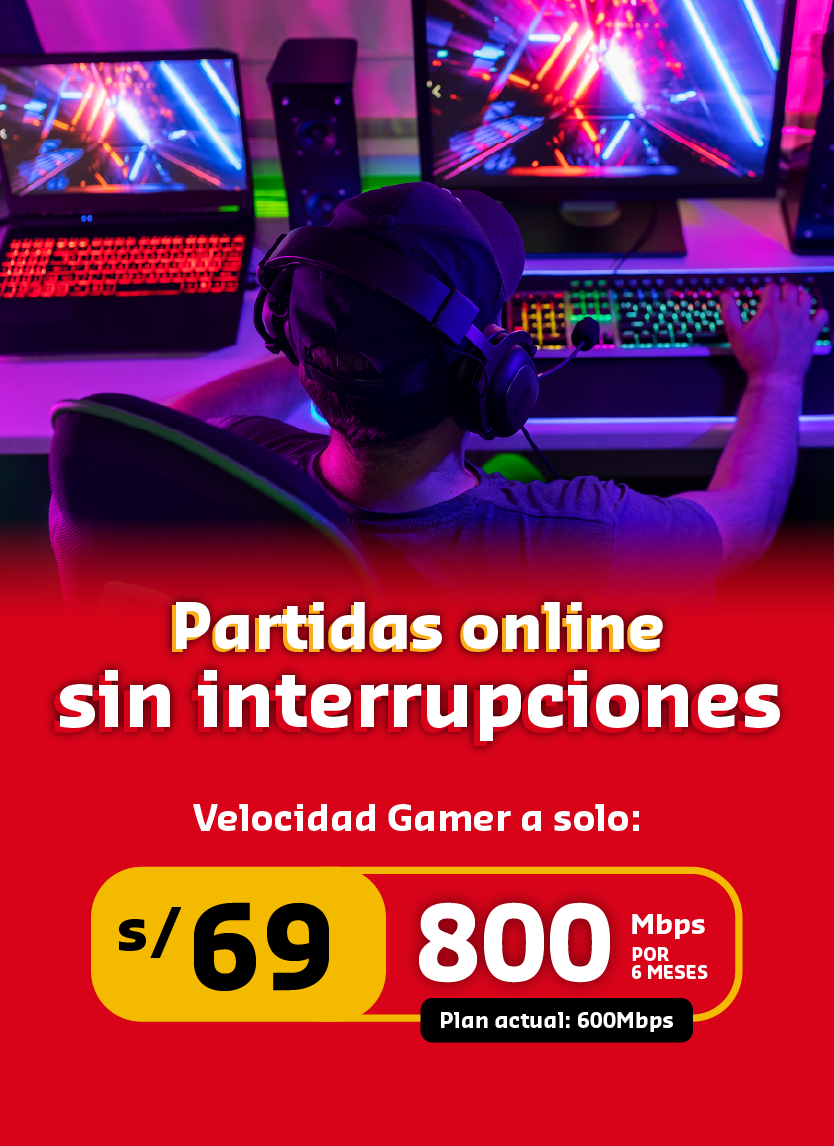
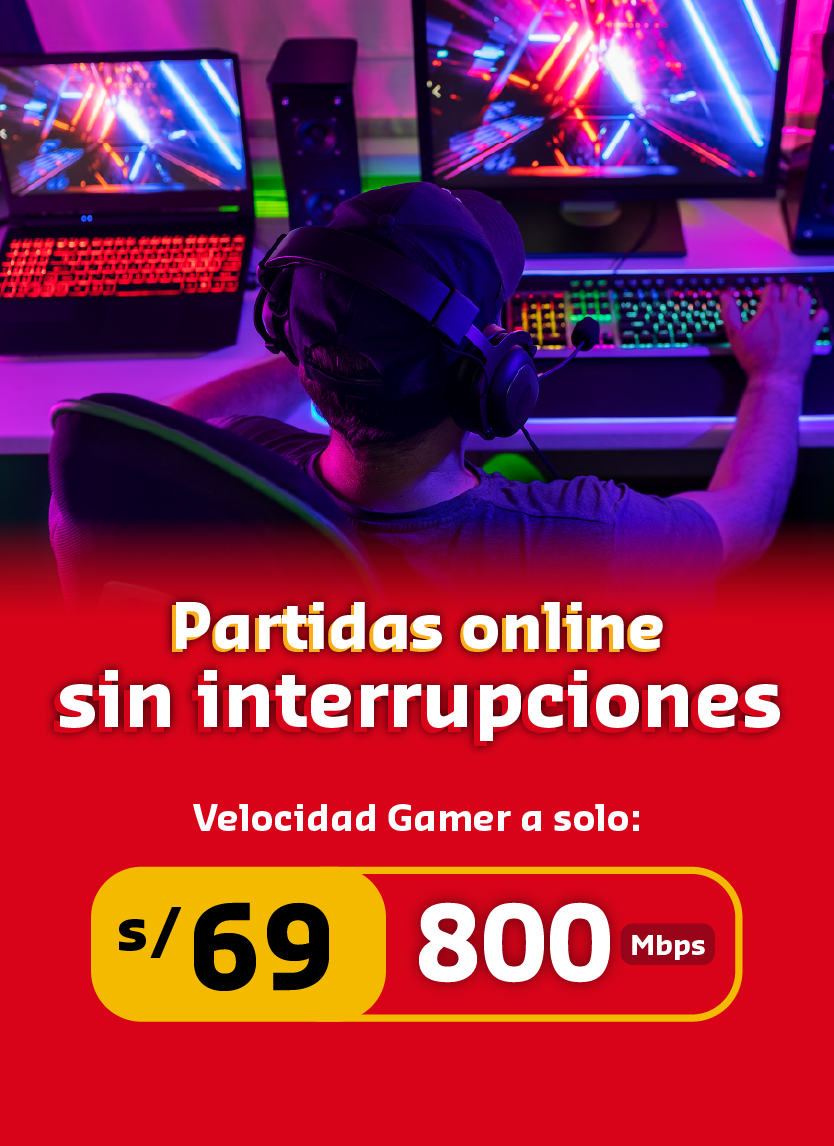
feat: update

Changed region(s): [[0.4988, 0.7941, 0.8729, 0.9162]]

diff --git a/perufibra/src/app/components/Plans.tsx b/perufibra/src/app/components/Plans.tsx
@@ -18,7 +18,7 @@ const plans: Plan[] = [
   {
     title: "Internet",
     description: "100% Fibra Óptica",
-    megas: "300 Mbps",
+    megas: "400 Mbps",
     price: "S/ 59",
     paymentType: "Pago Mensual",
     subtext: ["Internet ilimitado", "Wifi doble banda", "Sin costo de instalación"],
@@ -26,7 +26,7 @@ const plans: Plan[] = [
   {
     title: "Internet",
     description: "100% Fibra Óptica",
-    megas: "600 Mbps",
+    megas: "800 Mbps",
     price: "S/ 69",
     paymentType: "Pago Mensual",
     subtext: ["Internet ilimitado", "Wifi doble banda", "Sin costo de instalación"],
@@ -99,7 +99,7 @@ export default function PlansSection() {
 
   const closeSuccess = () => {
     setShowSuccess(false);
-    setOpen(false); // cierra también el modal de formulario
+    setOpen(false); // cierra el modal de formulario
   };
 
   return (
@@ -129,7 +129,7 @@ export default function PlansSection() {
               <p className="text-5xl font-semibold text-black mb-1">{plan.price}</p>
               <p className="text-m font-semibold text-black mb-10">Pago Mensual</p>
 
-              <ul className="text-sm text-black mb-6 space-y-3 text-center">
+              <ul className="text-sm text-black mb-6 space-y-3 text-center ">
                 {plan.subtext.map((item, i) => (
                   <li key={i} className="border-b border-gray-300 pb-2">
                     {item}
@@ -152,7 +152,7 @@ export default function PlansSection() {
         <div className="fixed inset-0 z-[200] flex items-center justify-center" role="dialog" aria-modal="true">
           <div className="absolute inset-0 bg-black/50" onClick={closeModal} aria-hidden="true" />
           <div className="relative rounded-[28px] overflow-hidden shadow-2xl bg-[#F4BA00] w-[94%] max-w-[600px] lg:w-[78%] lg:max-w-[1100px]">
-            <div className="grid grid-cols-[110px_minmax(0,1fr)] lg:grid-cols-[400px_minmax(0,1fr)] h-[500px] lg:h-[520px]">
+            <div className="grid grid-cols-[110px_minmax(0,1fr)] lg:grid-cols-[400px_minmax(0,1fr)] h-[460px] lg:h-[500px]">
               {/* Imagen responsive (móvil/desktop) */}
               <picture className="w-full h-full">
                 <source media="(min-width:1024px)" srcSet="/img/fondo-formulario-popup.png" />
@@ -163,7 +163,7 @@ export default function PlansSection() {
               </picture>
 
               {/* Panel formulario */}
-              <div className="relative p-2 pt-5 sm:p-7 lg:p-10 xl:p-12 lg:pt-10">
+              <div className="relative p-2 pt-5 sm:p-7 lg:p-10 xl:p-17 lg:pt-10">
                 <h3 className="text-[25px] sm:text-3xl lg:text-3xl leading-tight font-extrabold text-black text-center mb-3">
                   Vive la velocidad que tu hogar merece
                 </h3>

diff --git a/perufibra/src/app/components/Footer.tsx b/perufibra/src/app/components/Footer.tsx
@@ -1,33 +1,36 @@
+"use client"
 import React from 'react';
 import { BiSolidPhoneCall } from "react-icons/bi";
+import useDeviceType from "../hooks/useDeviceType";
 
 const Footer = () => {
+  const isMobile = useDeviceType();
   return (
     <footer className="bg-[#000000] text-white py-9">
-  <div className="max-w-screen-xl mx-auto flex flex-col sm:flex-row justify-between items-center px-20">
-    <div className="flex items-center mb-2 sm:mb-0">
-      <img
-        src="/img/logo-Agora-blanco 1.png"
-        alt="Logo"
-        className="w-28"/>
-      <div className="h-8 w-px bg-white mx-4"></div>
-      <span className="ml-2 text-sm">Agente Autorizado</span>
-    </div>
-    <div className="text-m flex flex-col items-center">
-      <span className="mb-0.5">Central de Ventas</span>
-      <div className="flex items-center">
-        <span className="mr-2">
-          <BiSolidPhoneCall color="#FFFFFF" size={22} />
-        </span>
-        <a href="tel:+987654321" className="text-white hover:text-white">
-          <span className="text-lg">987 654 321</span>
-        </a>
+      <div className="max-w-screen-xl mx-auto flex flex-col sm:flex-row justify-between items-center px-20">
+        <div className="flex items-center mb-2 sm:mb-0">
+          <img
+            src="/img/logo-Agora-blanco 1.png"
+            alt="Logo"
+            className="w-28"/>
+          <div className="h-8 w-px bg-white mx-4"></div>
+          <span className={`ml-2 text-sm ${isMobile ? 'block w-full text-center' : 'inline-block'}`}>
+            Agente Autorizado
+          </span>
+        </div>
+        <div className="text-m flex flex-col items-center">
+          <span className="mb-0.5">Central de Ventas</span>
+          <div className="flex items-center">
+            <span className="mr-2">
+              <BiSolidPhoneCall color="#FFFFFF" size={22} />
+            </span>
+            <a href="tel:+987654321" className="text-white hover:text-white">
+              <span className="text-lg">987 654 321</span>
+            </a>
+          </div>
+        </div>
       </div>
-    </div>
-  </div>
-</footer>
-
-
+    </footer>
   );
 };
 

diff --git a/perufibra/src/app/components/Carousel/Carousel.tsx b/perufibra/src/app/components/Carousel/Carousel.tsx
@@ -47,15 +47,17 @@ const Carousel: React.FC<CarouselProps> = ({ images, autoSlideInterval = 5000 })
       {/* Botón de retroceder */}
       <button
         onClick={prevSlide}
-        className="absolute top-1/2 left-0 transform -translate-y-1/2 px-4 py-2 bg-white text-gray-800 rounded-full shadow-md hover:bg-gray-200 transition">
-        <FaArrowLeft size={24} />
+        aria-label="Anterior"
+        className="absolute top-1/2 left-3 -translate-y-1/2 bg-[#D80319] text-white w-9 h-9 sm:w-10 sm:h-10 flex items-center justify-center rounded-full hover:bg-[#b00213] focus:outline-none focus:ring-2 focus:ring-white/30 transition-colors">
+        <FaArrowLeft size={18} />
       </button>
 
       {/* Botón de siguiente */}
       <button
         onClick={nextSlide}
-        className="absolute top-1/2 right-0 transform -translate-y-1/2 px-4 py-2 bg-white text-gray-800 rounded-full shadow-md hover:bg-gray-200 transition">
-        <FaArrowRight size={24} />
+        aria-label="Siguiente"
+        className="absolute top-1/2 right-3 -translate-y-1/2 bg-[#D80319] text-white w-9 h-9 sm:w-10 sm:h-10 flex items-center justify-center rounded-full hover:bg-[#b00213] focus:outline-none focus:ring-2 focus:ring-white/30 transition-colors">
+        <FaArrowRight size={18} />
       </button>
 
       {/* Indicadores de página */}

diff --git a/perufibra/src/app/components/Hero.tsx b/perufibra/src/app/components/Hero.tsx
@@ -8,8 +8,8 @@ export default function Hero() {
 
     // Imágenes para escritorio
     const desktopImages = [
-        "/img/banner-perufibra1@0.5x.webp",
-        "/img/banner-perufibra2@0.5x.webp",
+        "/img/banner-perufibra1.webp",
+        "/img/banner-perufibra2.webp",
     ];
 
     // Imágenes para móvil
